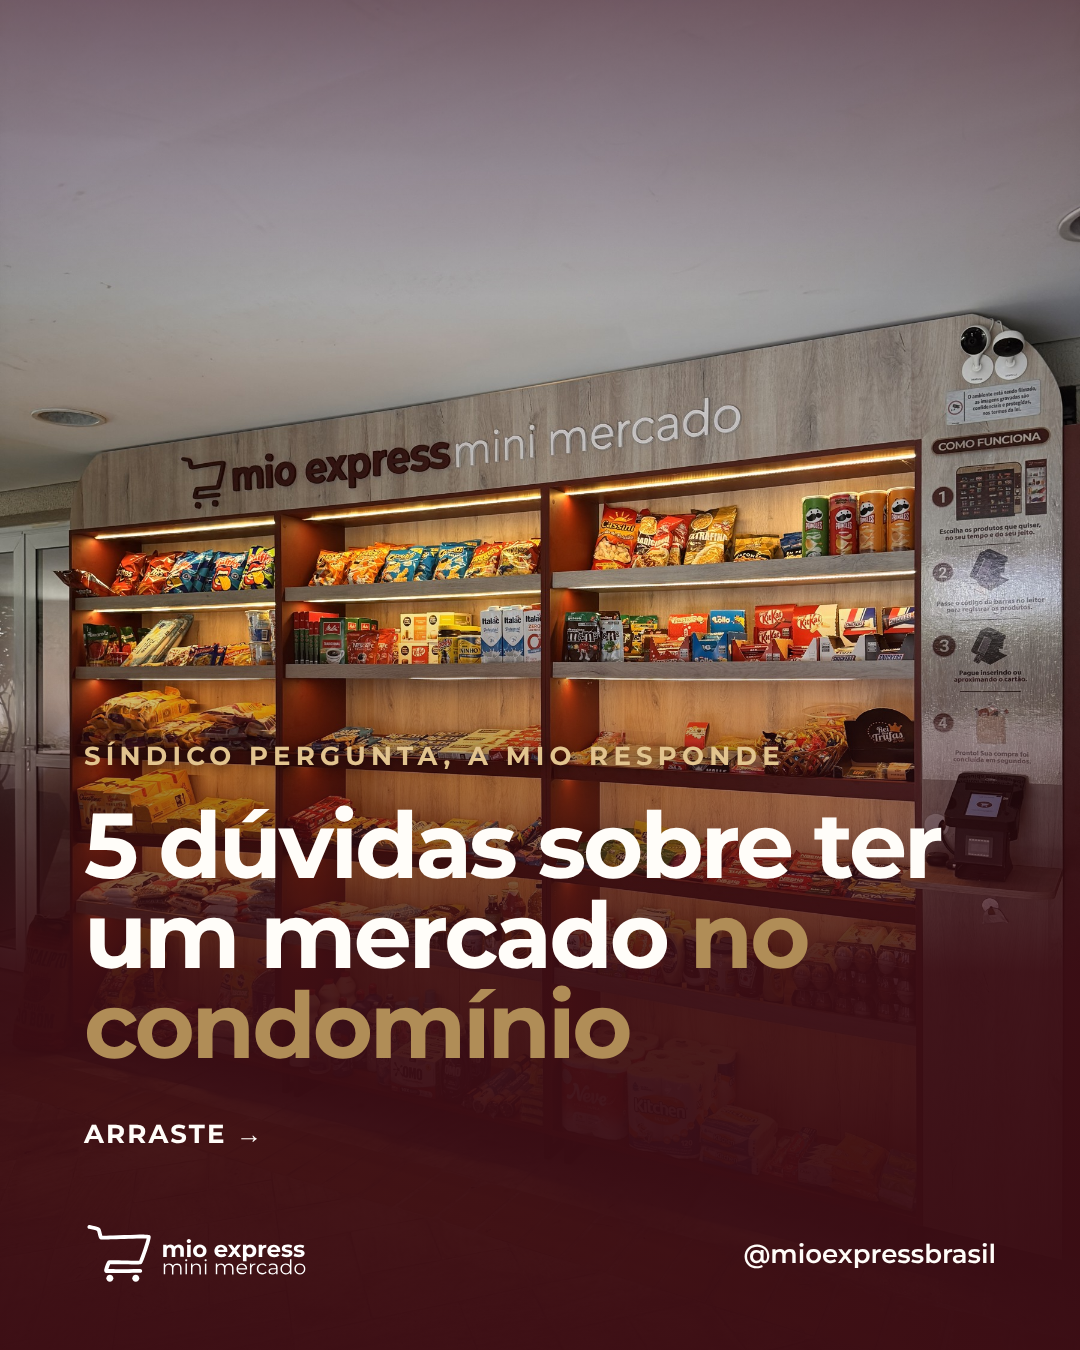
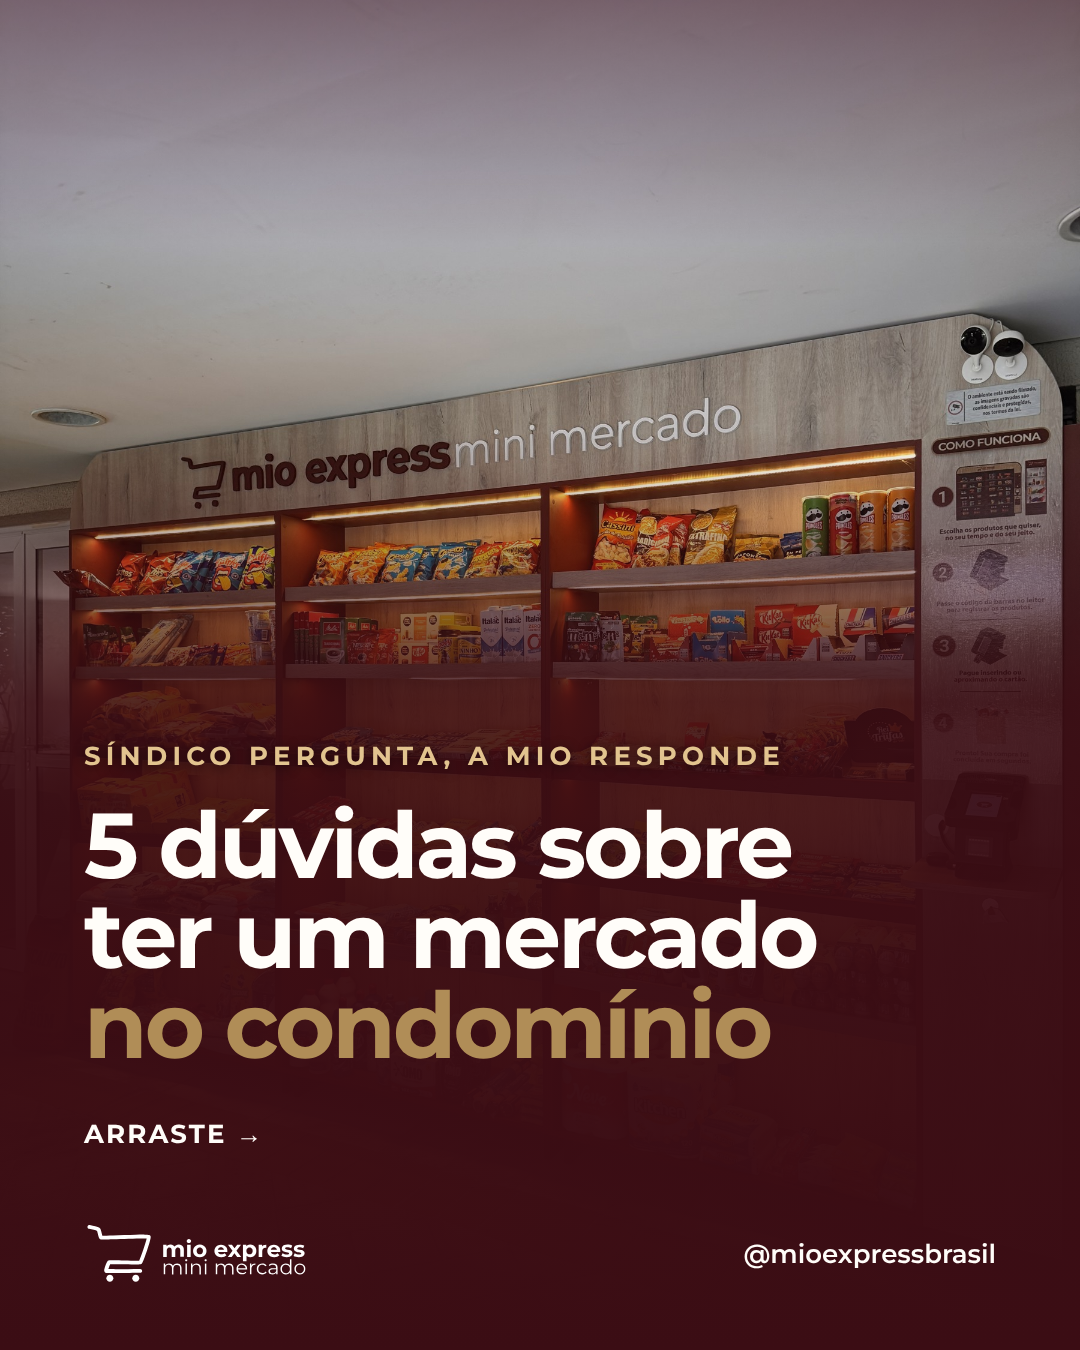
Marketing: quebras de linha e degradê nas artes com foto real
Claude-Session: https://claude.ai/code/session_01CwP1brNtxaKT1mUQXiiAjA

Changed region(s): [[0.0, 0.3422, 1.0, 0.8089]]

diff --git a/marketing/posts/10-teste-foto-real/.slide.html b/marketing/posts/10-teste-foto-real/.slide.html
@@ -36,9 +36,9 @@ p.lead { font-size: 38px; line-height: 1.35; font-weight: 500; opacity: .88; }
 .tag { position: absolute; top: 84px; right: 84px; z-index: 2; font-size: 24px; font-weight: 700; letter-spacing: .12em; opacity: .8; }
 .ft { position: absolute; inset: 0; background-size: cover; }
 .ft::after { content: ""; position: absolute; inset: 0; background: linear-gradient(180deg, rgba(59,13,20,.97) 0%, rgba(59,13,20,.9) 30%, rgba(59,13,20,.25) 52%, rgba(59,13,20,0) 66%, rgba(59,13,20,.75) 100%); }
-.ft2 { position: absolute; left: 0; right: 0; bottom: 0; height: 820px; background-size: cover; }
+.ft2 { position: absolute; left: 0; right: 0; bottom: 0; height: 760px; background-size: cover; }
 .ft2::after { content: ""; position: absolute; inset: 0; background: linear-gradient(180deg, #3b0d14 0%, rgba(59,13,20,0) 28%, rgba(59,13,20,0) 70%, rgba(59,13,20,.85) 100%); }
-.ft.baixo::after { background: linear-gradient(180deg, rgba(59,13,20,.55) 0%, rgba(59,13,20,0) 22%, rgba(59,13,20,0) 45%, rgba(59,13,20,.92) 72%, rgba(59,13,20,.98) 100%); }
+.ft.baixo::after { background: linear-gradient(180deg, rgba(59,13,20,.5) 0%, rgba(59,13,20,0) 18%, rgba(59,13,20,0) 32%, rgba(59,13,20,.88) 52%, rgba(59,13,20,.97) 70%, #3b0d14 100%); }
 </style><body><div class="s" style="color:#fffdf9"><div class="ft baixo" style="background-image:url(file:///home/user/mioexpress-site/assets/source/fotos/loja4-ambiente.jpg);background-position:20% 70%"></div>
         <div class="z mt-a" style="margin-bottom:110px"><p class="eyebrow" style="color:#e2c48f">Calor? A gente resolve</p>
-        <h1 class="mt1">Picolé <em>Los Los</em> a poucos passos de casa.</h1></div><div class="rodape"><img src="file:///home/user/mioexpress-site/public/brand/logo-white.svg"><span>@mioexpressbrasil</span></div></div></body>
+        <h1 class="mt1">Picolé <em>Los Los</em><br>a poucos passos<br>de casa.</h1></div><div class="rodape"><img src="file:///home/user/mioexpress-site/public/brand/logo-white.svg"><span>@mioexpressbrasil</span></div></div></body>

diff --git a/CLAUDE.md b/CLAUDE.md
@@ -49,6 +49,8 @@ Leia antes de qualquer trabalho. Vale para o site e para o marketing.
 - **Artes:**
   - Gerador: `node marketing/gerador/posts.mjs [id]`, que gera 1080×1350 em `marketing/posts/<id>/` com `legenda.txt`.
   - Para um post novo, copie um item de `POSTS` no gerador.
+  - Direção visual (João, 26/10): foto real da loja de fundo, com degradê bordô sob o texto. Nada de produto recortado solto no fundo, nem render 3D no feed. Fotos em `assets/source/fotos/` (loja2, loja3, loja4).
+  - Quebre as linhas dos títulos à mão (`<br>`): sem palavra sozinha na última linha, e o texto todo dentro da área escura do degradê.
 - **Primeiro lote, em rascunho no Metricool desde 26/10/2026** (esperando aprovação do João). As imagens públicas ficam em `public/ig/<id>/` (noindex; ao mudar uma arte, use pasta nova, como `-v2`, por causa do cache):
   - Seg 26/10 18h: 09 Halloween "até os produtos se fantasiaram" (carrossel com imagens do GPT, aprovado pelo João, agendado de verdade, marcado como IA). Cupom MIOWEEN10, 10% em doces só na sexta e no sábado (30 e 31/10). Código no totem: mínimo de 8 caracteres, maiúsculas e números
   - Stories agendados: seg 26/10 18h10 (chamada para o post), sexta 30/10 10h e sábado 31/10 10h (cupom de Halloween). O gerador de stories fica em `marketing/gerador/stories.mjs`.
